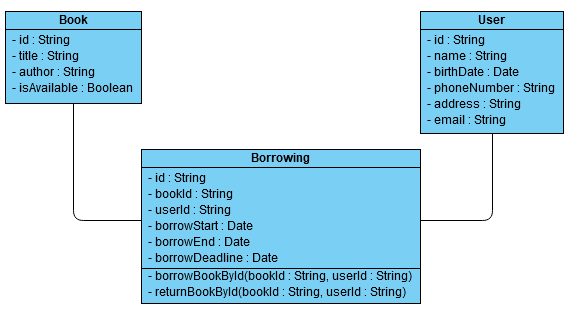
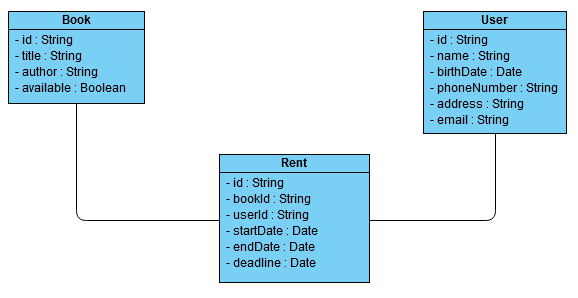
Rendszerterv javítása: adatbázis modell ábra, a táblanevek aktualizálása, igeidők javítása

Changed region(s): [[0.0, 0.0302, 1.0, 0.9966]]

diff --git a/Documentation/rendszerterv.md b/Documentation/rendszerterv.md
@@ -16,7 +16,7 @@
 <p align="justify">Úgy hisszük, hogy a code review is nagyban hozzájárul ahhoz, hogy a program a megfelelő minőségben kerüljön a felhasználók elé, emiatt tervezzük rendszeresen átnézni és véleményezni az általunk írt programsorokat.</p>
 
 ### Projektszerepkörök és felelősségeik
-<p align="justify">A cég 4 fős csapata fog dolgozni a projekten. A kis létszámból adódóan nincsenek hagyományos értelemben vett szerepkörök definiálva, mindenki igyekszik a legtöbb munkálatba belefolyni. Azonban vannak olyan területek, amihez egy bizonyos személy jobban ért, mint a többiek, ezért úgy éreztük, hogy fontos az, hogy bizonyos részterületekhez kinevezzünk egy-egy felelőst, akihez a felmerülő problémák esetén lehet fordulni. A felelősök megnevezése, az általuk reprezentált speciális területtel:</p>
+<p align="justify">A cég 4 fős csapata dolgozik a projekten. A kis létszámból adódóan nincsenek hagyományos értelemben vett szerepkörök definiálva, mindenki igyekszik a legtöbb munkálatba belefolyni. Azonban vannak olyan területek, amihez egy bizonyos személy jobban ért, mint a többiek, ezért úgy éreztük, hogy fontos az, hogy bizonyos részterületekhez kinevezzünk egy-egy felelőst, akihez a felmerülő problémák esetén lehet fordulni. A felelősök megnevezése, az általuk reprezentált speciális területtel:</p>
 
 * Kovács Nikolett: kinézet, felhasználói felület
 * Kövér Krisztián: adatok kezelése
@@ -66,18 +66,18 @@ Mivel a teljes projektre 2 hét áll rendelkezésünkre, így ezt 1 sprinten bel
 <p align="justify">Az elkészült program a Pajkaréti Közösségi Könyvtár számítógépein fog futni, amelyek jelen állapotukban nem alkalmasak arra, hogy a Windows 10 64 bites operációs rendszert futtassák, viszont a CsodaKönyvtár 1.14.4 országos pályázat keretein belül tervezik ezen számítógépek komponenseinek lecserélését, ezáltal az operációs rendszer és a program futtatása már nem fog gondot okozni. Azért ezt az operációs rendszert választottuk, mivel az erre a platformra történő fejlesztésben van a csapatunknak tapasztalata, illetve fontos szempont volt az is, hogy a választott operációs rendszer hosszú távon támogatott legyen. A CsodaKönyvtár 1.14.4 országos pályázat várhatóan biztosítani fogja az operációs rendszer licenszek megvásárlásához szükséges pénzügyi keretet is. Ha a Könyvtár igényli, akkor biztosítani tudunk számukra szakembereket, akik segíteni tudnak az operációs rendszer megfelelő feltelepítésében.</p>
 
 #### Programozási nyelv - Java
-<p align="justify">A programot Java programozási nyelven tervezzük megírni, azon belül is a Java SE Development Kit 11-et használva. Cégünk leginkább Java nyelven írt alkalmazások fejlesztésében tapasztalt, emiatt esett a választás erre a programozási nyelvre. A céges környezetünkben leginkább a Java SE Development Kit 8 van elterjedten használva, viszont a hosszabb támogatottsági idő reményében ezen projekt során a 11-es verziót fogjuk használni.</p>
+<p align="justify">A programot Java programozási nyelven írjuk, azon belül is a Java SE Development Kit 11-et használva. Cégünk leginkább Java nyelven írt alkalmazások fejlesztésében tapasztalt, emiatt esett a választás erre a programozási nyelvre. A céges környezetünkben leginkább a Java SE Development Kit 8 van elterjedten használva, viszont a hosszabb támogatottsági idő reményében ezen projekt során a 11-es verziót használjuk.</p>
 
 <p align="justify">A számítógépekre várhatóan telepítve lesz a Java SE Development Kit 11, ami a használt programozási nyelvből adódóan szintén szükséges az elkészült program futtatásához.</p>
 
 #### Felhasználói felület - JavaFX
-<p align="justify">A felhasználói felület kialakításához JavaFX technológiát tervezünk használni, CSS stíluslapokkal javítva annak megjelenésén. A választásunk azért esett erre a technológiára, mivel a csapatunkon belül ezt a technológiát ismerjük a legjobban. Manapság ez a technológia már nem annyira népszerű, viszont mi mégis bízunk abban, hogy megfelelő felhasználói felületet fog tudni biztosítani a fejlesztendő programunk számára.</p>
+<p align="justify">A felhasználói felület kialakításához JavaFX technológiát használjuk, CSS stíluslapokkal javítva annak megjelenésén. A választásunk azért esett erre a technológiára, mivel a csapatunkon belül ezt a technológiát ismerjük a legjobban. Manapság ez a technológia már nem annyira népszerű, viszont mi mégis bízunk abban, hogy megfelelő felhasználói felületet fog tudni biztosítani a fejlesztendő programunk számára.</p>
 
 #### Build automatizálási tool - Apache Maven
 <p align="justify">A szoftverprojekt menedzselésére és a buildelés automatizálására az Apache Maven nevű eszközt használjuk. Azért ezt az eszközt választottuk, mivel kompatibilis a Java programozási nyelvvel, és a felmerülő alternatívák vagy túl elavultnak számítanak manapság (pl. Apache Ant), vagy pedig nem ismerjük őket annyira, hogy megfelelő magabiztossággal tudjuk alkalmazni (pl. Gradle). A kezeléséhez szükséges bizonyos szintű XML tudás, viszont azt a fejlesztőcsapaton belül mindannyian magabiztosan ismerjük és alkalmazzuk, így ez nem fog gondot okozni.</p>
 
 #### Perzisztens adatkezelés - JPA, Hibernate, RemoteMySQL
-<p align="justify">A perzisztens adatkezelés megvalósítására a Java Persistence API-t tervezzük használni. Ezen belül a Hibernate objektum-relációs leképezés eszközzel szándékozunk dolgozni a JPA implementációk közül. A csapat korábbi tapasztalatai alapján felmerült még további lehetőségként a JAXB, tehát az XML alapú perzisztens adatkezelés, illetve a Gson is, ami pedig JSON alapú. Viszont ezek a CRUD, azaz a Create, Read, Update és Delete műveletek közül az Update-et nem támogatják, a program megvalósításakor viszont várhatóan szükségünk lesz rá, emiatt le kellett mondanunk a használatukról. A JPA-t a Google Guice nevű függőség befecskendezési keretrendszer segítségével tervezzük használni.</p>
+<p align="justify">A perzisztens adatkezelés megvalósítására a Java Persistence API-t használjuk. Ezen belül a Hibernate objektum-relációs leképezés eszközzel szándékozunk dolgozni a JPA implementációk közül. A csapat korábbi tapasztalatai alapján felmerült még további lehetőségként a JAXB, tehát az XML alapú perzisztens adatkezelés, illetve a Gson is, ami pedig JSON alapú. Viszont ezek a CRUD, azaz a Create, Read, Update és Delete műveletek közül az Update-et nem támogatják, a program megvalósításakor viszont várhatóan szükségünk lesz rá, emiatt le kellett mondanunk a használatukról. A JPA-t a Google Guice nevű függőség befecskendezési keretrendszer segítségével tervezzük használni.</p>
 
 <p align="justify">A JPA használatához szükséges egy SQL hoszt is, ami a magát az adatbázist tárolja. A Narvál 1.0 elnevezésű próbaprogram esetén úgy gondoljuk, egyelőre megfelelő lesz egy ingyenes szolgáltatás is. Ehhez a <a href="https://remotemysql.com/">Remote MySQL</a>-t tervezzük használni, ami korábbi kisebb projektjeink során megfelelőnek, illetve megbízhatónak bizonyult.</p>
 
@@ -85,13 +85,13 @@ Mivel a teljes projektre 2 hét áll rendelkezésünkre, így ezt 1 sprinten bel
 <p align="justify">Korábbi pozitív tapasztalataink alapján mindenképpen szeretnénk használni a <a href="https://projectlombok.org/">Project Lombok</a> nevű Java könyvtár által nyújtotta lehetőségeket, mivel rengeteg hasznos funkcióval könnyíti meg a fejlesztők életét. A könyvtár főként annotációkat definiál, amelyekkel egyszerűen és átláthatóan generálhatóak konstruktorok, getterek, setterek, illetve tartalmaz annotációt a Builder tervezési minta alkalmazásához is.</p>
 
 #### Logolás - Log4J
-<p align="justify">A hibakeresésben fontos szerepet játszik a logolás, úgy gondoljuk, hogy a hasznos log üzenetek jelentősen megkönnyíthetik a fejlesztők életét. Emiatt tervezzük valamelyik lightweight logolási keretrendszer használatát is. Többféle ilyennel is van már korábbi tapasztalatunk, pl. SLF4J, TinyLog, Java.util.logging, Logback, Log4j. A fejlesztőcsapat ezen projekt során várhatóan az <a href="https://www.slf4j.org/">SLF4J</a>-t felhasználva fogja kezelni a logolást. A logolásra nem tervezünk konkrét log fájl létrehozását, illetve abba való kiíratást, hanem csak egyszerűen a standard outputra fogunk hagyatkozni.</p>
+<p align="justify">A hibakeresésben fontos szerepet játszik a logolás, úgy gondoljuk, hogy a hasznos log üzenetek jelentősen megkönnyíthetik a fejlesztők életét. Emiatt tervezzük valamelyik lightweight logolási keretrendszer használatát is. Többféle ilyennel is van már korábbi tapasztalatunk, pl. SLF4J, TinyLog, Java.util.logging, Logback, Log4j. A fejlesztőcsapat ezen projekt során várhatóan az <a href="https://www.slf4j.org/">SLF4J</a>-t felhasználva fogja kezelni a logolást. A logolásra nem tervezünk konkrét log fájl létrehozását, illetve abba való kiíratást, hanem csak egyszerűen a standard outputra hagyatkozunk.</p>
 
 #### Futtatható JAR - Maven Shade Plugin
 <p align="justify">Az egyszerű futtatás érdekében az elkészült programhoz szeretnénk az Apache Maven Shade Plugin segítségével egy futtatható JAR fájlt is létrehozni.</p>
 
 ### Architekturális terv
-<p align="justify">Szoftverarchitektúrák tekintetében a Model-View-Controller, azaz az MVC szerkezeti mintát tervezzük követni. Ez alapján a szoftvert 3 szerkezeti részre lehet felosztani:</p>
+<p align="justify">Szoftverarchitektúrák tekintetében a Model-View-Controller, azaz az MVC szerkezeti mintát követjük. Ez alapján a szoftvert 3 szerkezeti részre lehet felosztani:</p>
 
 1. Modell (Model)  
     * Az alkalmazás által kezelt adatokat, illetve az üzleti logikát tartalmazza, független a megjelenítéstől
@@ -103,12 +103,16 @@ Mivel a teljes projektre 2 hét áll rendelkezésünkre, így ezt 1 sprinten bel
     * Kezeli a felhasználótól származó bemenetet és ez alapján a modell vagy a nézet felé szolgáltatáskéréseket tesz
     * Ezt a réteget reprezentálják a Controller osztályok
 
-<p align="justify">Az átláthatóság érdekében a projekt könyvtárszerkezetét is ehhez igazodva tervezzük létrehozni.</p>
+<p align="justify">Az átláthatóság érdekében a projekt könyvtárszerkezetét is ehhez igazodva hozzuk létre.</p>
 
-<p align="justify">A perzisztens adatokhoz való hozzáférést adatelérési objektumok, azaz DAO-k fogják biztosítani.</p>
+<p align="justify">A perzisztens adatokhoz való hozzáférést adatelérési objektumok, azaz DAO-k biztosítják.</p>
 
 ### Adatbázis terv
-Elképzeléseink szerint az adatbázis három táblát fog tartalmazni, amelyek a következők:
+Az adatbázis tervhez az alábbi modellt készítettük el:
+
+![](dataModel.png)
+
+Elképzeléseink szerint az adatbázis három táblát tartalmaz, amelyek a következők:
 * Book  
     Ez a tábla tartalmazza a könyvállomány könyveit, illetve azok adatait:
     * Egyedi azonosító (Cutter-szám)
@@ -123,7 +127,7 @@ Elképzeléseink szerint az adatbázis három táblát fog tartalmazni, amelyek 
     * Telefonszám
     * Lakcím
     * Email cím
-* Borrowing 
+* Rent 
     Ez a tábla tartalmazza a kölcsönzéseket, illetve azok adatait:
     * Egyedi azonosító (kölcsönzési azonosító)
     * A kölcsönzéshez tartozó könyv egyedi azonosítója
@@ -132,12 +136,12 @@ Elképzeléseink szerint az adatbázis három táblát fog tartalmazni, amelyek 
     * A kölcsönzés vége (ha nincs értéke, akkor az adott könyv még nem került visszaszolgáltatásra a kölcsönző által)
     * A kölcsönzés határideje (az az idő, amikor legkésőbb vissza kell vinnie az olvasónak a kikölcsönzött könyvet)
     
-A Book és a Borrowing táblák között 1:1 kapcsolat áll fenn, a User és a Borrowing között pedig 1:N, mivel:
+A Book és a Rent táblák között 1:1 kapcsolat áll fenn, a User és a Rent között pedig 1:N, mivel:
 * Egy könyvhöz csak egy kölcsönzés tartozhat, és egy kölcsönzéshez is egy könyv tartozhat (mivel a könyvek egyedi azonosító szerint vannak tárolva).
 * Egy olvasóhoz tartozhat több kölcsönzés is, viszont egy kölcsönzés csak egy olvasóhoz tartozhat.
 
 ### Implementációs terv
-<p align="justify">Az adatbázis tervben említett adatbázis táblák mindegyikéhez tartozik egy-egy POJO, azaz Plain Old Java Object, ezek kezdetleges tervét a lenti UML diagram szemlélteti. Ezek lesznek a JPA entitások.</p>
+<p align="justify">Az adatbázis tervben említett adatbázis táblák mindegyikéhez tartozik egy-egy POJO, azaz Plain Old Java Object, ezek kezdetleges tervét a lenti UML diagram szemlélteti - ezek a JPA entitások.</p>
 
 ![](uml.png)
 
@@ -145,7 +149,7 @@ A Book és a Borrowing táblák között 1:1 kapcsolat áll fenn, a User és a B
 <p align="justify">A határidő közelsége miatt, illetve a viszonylag kevés funkcionalitásból adódóan csupán manuális tesztet tervezünk végrehajtani a programon. Ezt egy megfelelő tesztelési dokumentációban tervezzük dokumentálni. Igyekszünk a lehető legtöbb szempontot figyelembe venni a három fő funkció minél biztosabb tesztelése érdekében.</p>
 
 ### Telepítési terv
-<p align="justify">Elképzeléseink alapján az elkészült program nem fog telepítést igényelni, csupán Windows 10 64 bites operációs rendszerre és Java SE Development Kit 11-re lesz szükség a számítógépeken. Az egyszerűség kedvéért a programot egy futtatható JAR fájl segítségével lehet majd elindítani, további beállítást nem fog igényelni. A szükséges környezet megteremtésében rendelkezésre állunk szaktudásunkkal a könyvtár számára.</p>
+<p align="justify">Elképzeléseink alapján az elkészült program nem igényel telepítést, csupán Windows 10 64 bites operációs rendszerre és Java SE Development Kit 11-re van szükség a számítógépeken. Az egyszerűség kedvéért a programot egy futtatható JAR fájl segítségével lehet elindítani, további beállítást nem igényel. A szükséges környezet megteremtésében rendelkezésre állunk szaktudásunkkal a könyvtár számára.</p>
 
 ### Karbantartási terv
 <p align="justify">Felmerülő problémák esetén a Pajkaréti Közösségi Könyvtár bármikor fordulhat hozzánk a kérdéseikkel, továbbá tervezünk írni számukra egy technikai dokumentációt is, ami tulajdonképpen egy használati utasításként szolgál, hogy minél egyszerűbben megtanulhassák a program kezelését, ezáltal próbálva lecsökkenteni az esetleges felhasználói általi hibalehetőségeket.</p>
